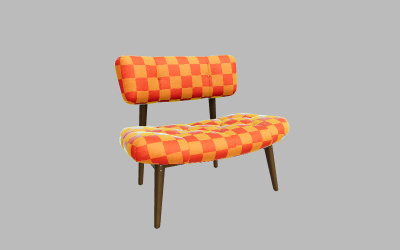
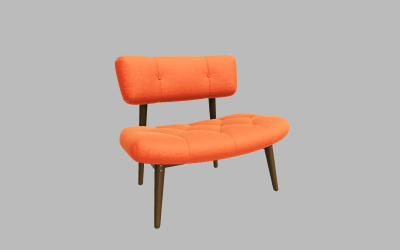
Examples: Simplified webgl_nodes_loader_gltf_sheen.

Changed region(s): [[0.3, 0.448, 0.75, 0.672], [0.27, 0.224, 0.6, 0.42]]

diff --git a/examples/webgl_nodes_loader_gltf_sheen.html b/examples/webgl_nodes_loader_gltf_sheen.html
@@ -67,18 +67,6 @@
 
 						scene.add( gltf.scene );
 
-						const object = gltf.scene.getObjectByName( 'SheenChair_fabric' );
-
-						// Convert to NodeMaterial
-						const material = NodeMaterial.fromMaterial( object.material );
-
-						const checkerNode = checker( mul( uv(), 5 ) );
-
-						material.sheenNode = mix( color( 0x00ffff ), color( 0xffff00 ), checkerNode );
-						material.sheenRoughnessNode = checkerNode;
-
-						object.material = material;
-
 					} );
 
 				renderer = new THREE.WebGLRenderer( { antialias: true } );
